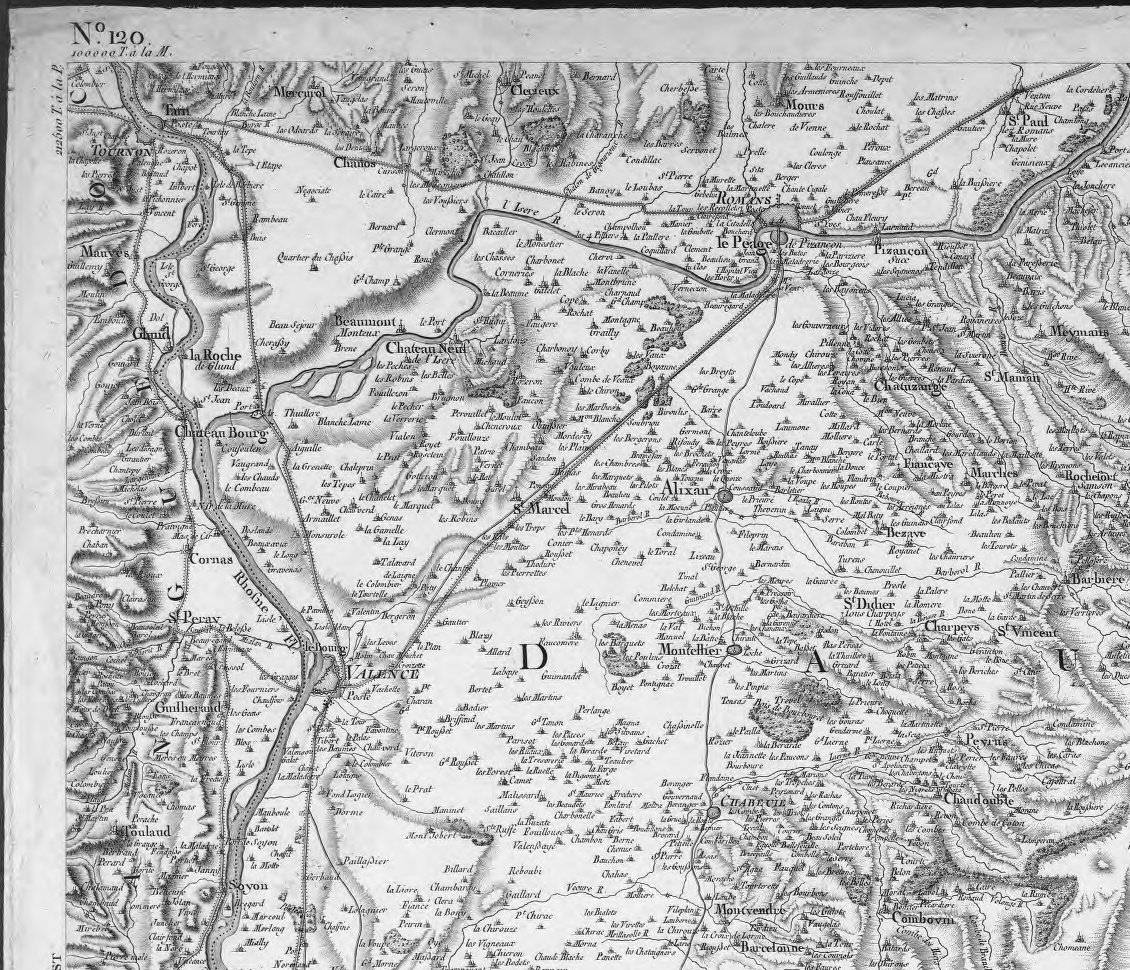
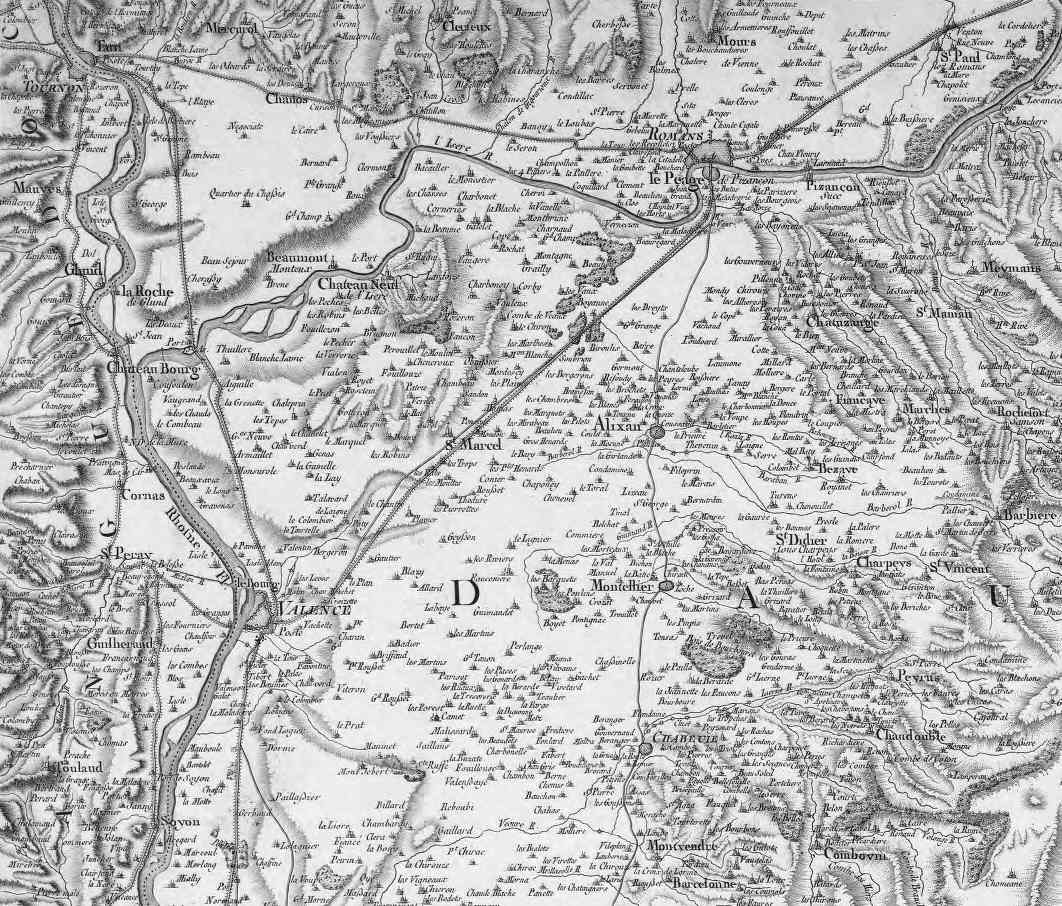
access map switcher

diff --git a/js/access.js b/js/access.js
@@ -1,0 +1,8 @@
+<!-- switch button to modern map -->
+document.getElementById('click1').onclick = function ( event ){
+    document.getElementById('mymap').src = "./css/images/carte4.jpg";
+}
+<!-- switch button to old map -->
+document.getElementById('click2').onclick = function ( event ){
+    document.getElementById('mymap').src = "./css/images/carte3.jpg";
+}

diff --git a/book.php b/book.php
@@ -15,6 +15,18 @@
                 <p>Some anticipated uses of canvas include building graphs, animations, games, and image composition.</p>
             </div>
         </section>
+        <section>
+            <div>
+                <h2>Plan d'accès</h2>
+                <?php include('access.php'); ?>
+            </div>
+        </section>
+        <section>
+            <div>
+                <h2>Mentions</h2>
+                <p>Some anticipated uses of canvas include building graphs, animations, games, and image composition.</p>
+            </div>
+        </section>
         <script type="text/javascript" src="js/pageflip.js"></script>
     </div>
     </canvas>

diff --git a/access.php b/access.php
@@ -1,0 +1,10 @@
+<div id="imageMap" style="width: 90%; margin-left: 40px;">
+    <div id="click1" style="position:relative; height: 30px; width: 50%;">
+    <p>moderne</p>
+    </div>
+    <div id="click2" style="position:relative; left: 50%; top: -30px; height: 30px; width: 50%;">
+    <p>ancien</p>
+    </div>
+    <img id="mymap" style="position: relative; top: -30px; width: 100%;" src="./css/images/carte4.jpg" align=""/>
+</div>
+<script type="text/javascript" src="js/access.js"></script>

diff --git a/index.php b/index.php
@@ -43,4 +43,5 @@
 
 ?>
 <?php include('book.php'); ?>
+<br>
 <?php include('footer.php'); ?>
